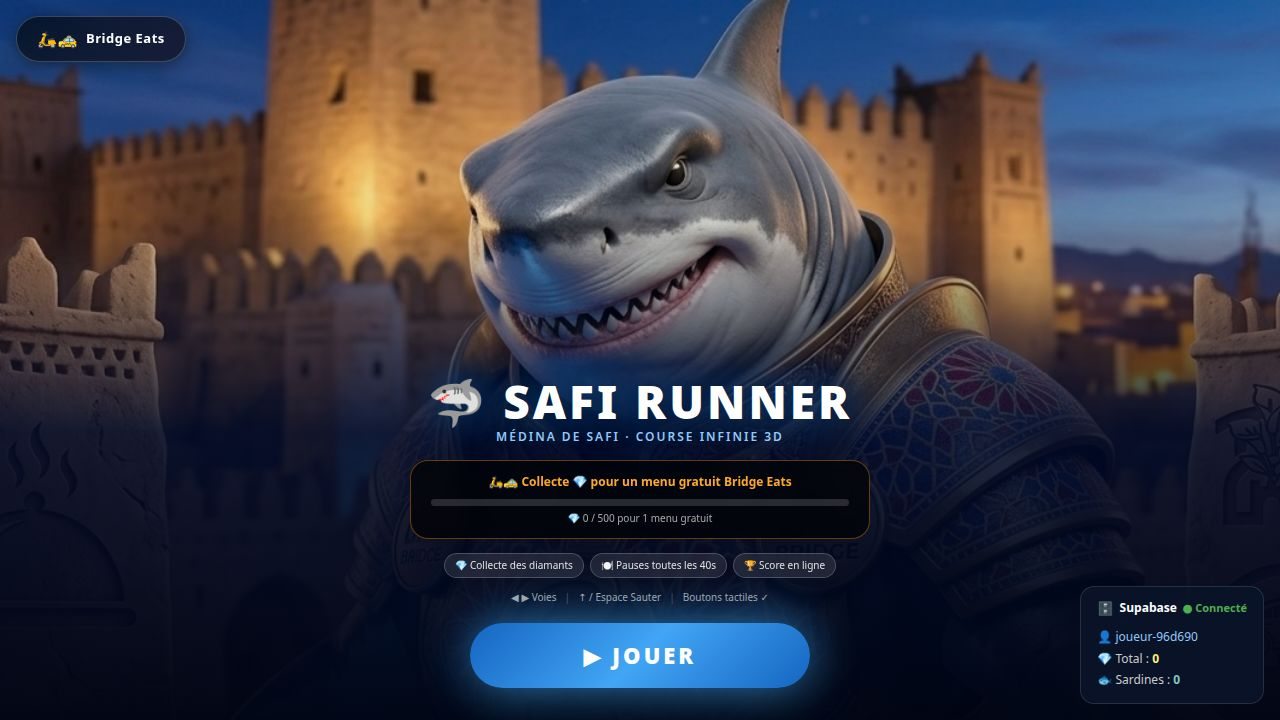
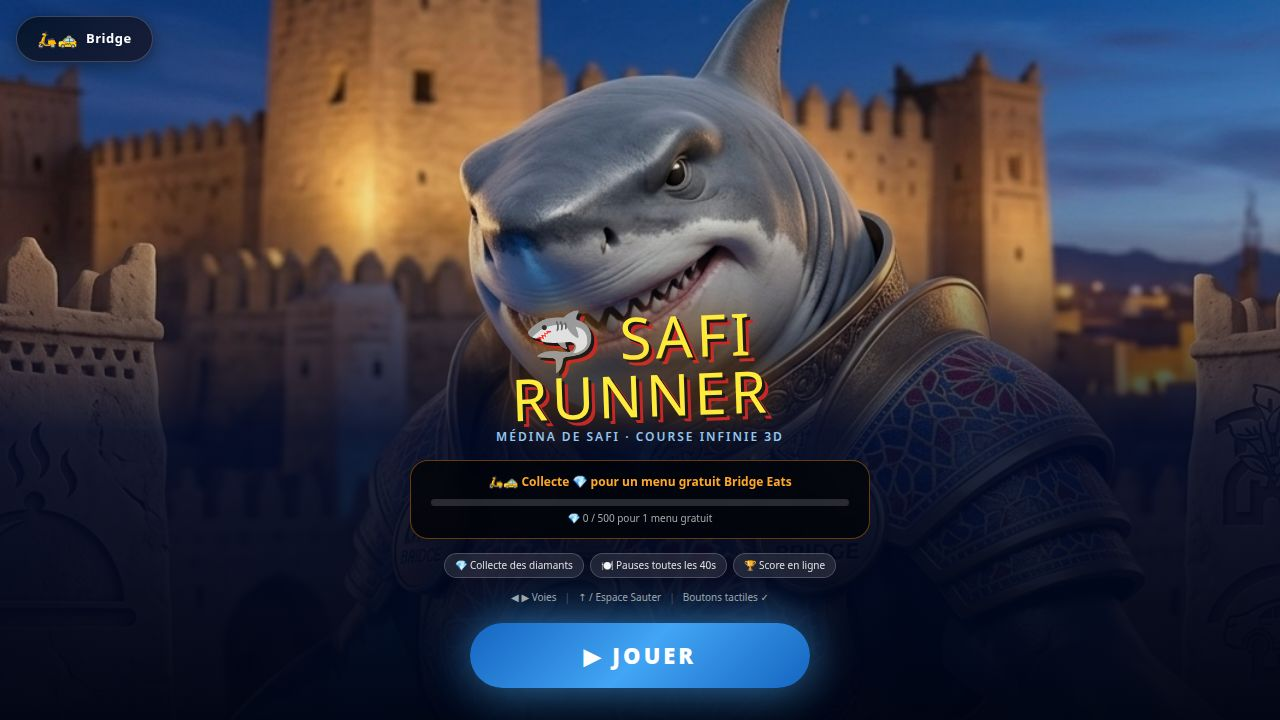
Adjust game difficulty to start easy and become progressively harder
Update game state parameters in `useGameState.ts` to implement a progressive difficulty curve, adjusting speed, obstacle rates, and collectible spawn rates over time. Also, reorder CSS imports in `index.css` to ensure Google Fonts are loaded first.

Replit-Commit-Author: Agent
Replit-Commit-Session-Id: 6561ac08-ca0f-453b-919e-0df1260e3bb4
Replit-Commit-Checkpoint-Type: full_checkpoint
Replit-Commit-Event-Id: eaf07655-99c6-4ed3-91b5-167feb515d7a
Replit-Commit-Screenshot-Url: https://storage.googleapis.com/screenshot-production-us-central1/de74e39f-30c2-4a4e-81c6-35b38d5328e6/6561ac08-ca0f-453b-919e-0df1260e3bb4/sDgDgtV
Replit-Helium-Checkpoint-Created: true

Changed region(s): [[0.3438, 0.3972, 0.6875, 0.6111], [0.8438, 0.825, 0.9688, 0.9778], [0.0938, 0.0, 0.1562, 0.0917]]

diff --git a/artifacts/3d-game/src/game/useGameState.ts b/artifacts/3d-game/src/game/useGameState.ts
@@ -30,15 +30,36 @@ export interface GameState {
   nextCheckpointAt: number;
 }
 
-/* ── Paramètres de difficulté ───────────────────────────────── */
-const CHECKPOINT_INTERVAL = 40;   // pub toutes les 40s (max de revenus)
-const SPEED_START       = 10;     // vitesse initiale plus rapide
-const SPEED_MAX         = 28;     // max speed pour sensation intense
-const SPEED_RAMP        = 120;    // rampe plus agressive (200 → 120)
-const OBSTACLE_RATE     = 2.4;    // obstacles plus fréquents (1.2 → 2.4)
-const DIAMOND_RATE      = 0.75;   // diamants rares (2.0 → 0.75) = 1 toutes ~1.3s
-const CLUSTER_CHANCE    = 0.25;   // 25% de chance de cluster (2 diamants d'affilée)
-const DOUBLE_OBS_CHANCE = 0.30;   // 30% de chance d'obstacle sur 2 voies simultanément
+/* ── Paramètres de difficulté progressive ──────────────────────
+   Le jeu démarre TRÈS facile (échauffement 15s) puis monte
+   progressivement. Pour atteindre 1000 il faudra ~80s à fond.
+   ─────────────────────────────────────────────────────────────── */
+const CHECKPOINT_INTERVAL = 60;   // pub toutes les 60s
+
+/* Vitesse — progression douce */
+const SPEED_START = 8;            // démarrage zen
+const SPEED_MAX   = 30;           // intense après ~90s
+const SPEED_RAMP_TIME = 90;       // 90s pour atteindre le max
+
+/* Spawn obstacles — quasi vide au début, dense à la fin */
+const OBSTACLE_RATE_MIN = 0.6;    // 0-15s : 1 obstacle / 1.7s (très facile)
+const OBSTACLE_RATE_MAX = 3.2;    // 90s+ : 1 obstacle toutes ~0.3s (intense)
+
+/* Double obstacle (bloque 2 voies) — apparaît seulement après 30s */
+const DOUBLE_OBS_START_TIME = 30; // pas de double avant 30s
+const DOUBLE_OBS_MAX_CHANCE = 0.45;
+
+/* Triple obstacle (force le saut) — apparaît seulement après 60s */
+const TRIPLE_OBS_START_TIME = 60;
+const TRIPLE_OBS_MAX_CHANCE = 0.15;
+
+/* Pièces d'or — généreuses au début pour la satisfaction */
+const DIAMOND_RATE_MIN = 1.4;     // au début beaucoup de pièces
+const DIAMOND_RATE_MAX = 0.7;     // à la fin moins de pièces (plus risquées)
+const CLUSTER_CHANCE   = 0.35;    // 35% de chance de cluster
+
+/* Helper : interpolation linéaire bornée */
+const lerp = (a: number, b: number, t: number) => a + (b - a) * Math.max(0, Math.min(1, t));
 
 export function useGameState() {
   const idRef = useRef(0);
@@ -68,23 +89,23 @@ export function useGameState() {
     lastDiamondLane.current = null;
     clusterCount.current = 0;
 
-    /* Pré-charger diamants et obstacles so the game feels full immediately */
+    /* Démarrage doux : peu d'obstacles, beaucoup de pièces visibles */
     const preObstacles: Obstacle[] = [];
     const preDiamonds: Diamond[] = [];
 
-    // Obstacles à 3 distances différentes (pas trop proches au départ)
-    [-55, -85, -120, -155].forEach((z) => {
+    // Seulement 2 obstacles loin pour ne pas effrayer le débutant
+    [-95, -150].forEach((z) => {
       const lane = Math.floor(Math.random() * 3) - 1;
       preObstacles.push({ id: idRef.current++, lane, z });
     });
 
-    // Diamants répartis sur toute la profondeur visible
-    [-12, -22, -35, -48, -62, -78, -95, -115, -138, -160].forEach((z) => {
+    // Beaucoup de pièces tentantes au démarrage
+    [-12, -22, -32, -42, -55, -68, -82, -100, -120, -140, -165].forEach((z) => {
       const lane = Math.floor(Math.random() * 3) - 1;
       preDiamonds.push({ id: idRef.current++, lane, z });
-      // quelques clusters
-      if (Math.random() < 0.35) {
-        preDiamonds.push({ id: idRef.current++, lane, z: z - 6 });
+      // Clusters généreux au début
+      if (Math.random() < 0.5) {
+        preDiamonds.push({ id: idRef.current++, lane, z: z - 5 });
       }
     });
 
@@ -135,8 +156,24 @@ export function useGameState() {
       playTime += dt;
       distance += dt * speed;
 
-      // Vitesse : montée rapide et agressive
-      speed = Math.min(SPEED_MAX, SPEED_START + distance / SPEED_RAMP);
+      /* ── Progression de difficulté basée sur le temps de jeu ─ */
+      const t = playTime / SPEED_RAMP_TIME;             // 0 → 1 sur 90s
+      speed = lerp(SPEED_START, SPEED_MAX, t);
+
+      // Easing : facile au début, plus intense après 30s (courbe quadratique)
+      const dt15 = Math.max(0, (playTime - 15) / 75);   // démarre à 15s
+      const obstacleRate = lerp(OBSTACLE_RATE_MIN, OBSTACLE_RATE_MAX, dt15 * dt15);
+
+      // Pièces : décroissent légèrement (forcent le risque pour les coins)
+      const diamondRate = lerp(DIAMOND_RATE_MIN, DIAMOND_RATE_MAX, t);
+
+      // Double / triple obstacles : déblocages temporels
+      const doubleChance = playTime < DOUBLE_OBS_START_TIME
+        ? 0
+        : lerp(0, DOUBLE_OBS_MAX_CHANCE, (playTime - DOUBLE_OBS_START_TIME) / 60);
+      const tripleChance = playTime < TRIPLE_OBS_START_TIME
+        ? 0
+        : lerp(0, TRIPLE_OBS_MAX_CHANCE, (playTime - TRIPLE_OBS_START_TIME) / 60);
 
       // Checkpoint → pub
       if (playTime >= nextCheckpointAt) {
@@ -172,30 +209,33 @@ export function useGameState() {
         .map((d) => ({ ...d, z: d.z + speed * dt }))
         .filter((d) => d.z < DESPAWN_Z);
 
-      /* ── Spawn obstacles ────────────────────────────────────── */
-      if (Math.random() < dt * OBSTACLE_RATE) {
+      /* ── Spawn obstacles (rate progressif) ─────────────────── */
+      if (Math.random() < dt * obstacleRate) {
         const lane = Math.floor(Math.random() * 3) - 1;
         obstacles.push({ id: idRef.current++, lane, z: SPAWN_Z });
 
-        // Double obstacle : bloque 2 voies sur 3 = force le joueur à sauter ou à chercher la bonne voie
-        if (Math.random() < DOUBLE_OBS_CHANCE) {
+        // Double obstacle (après 30s) — bloque 2 voies
+        if (Math.random() < doubleChance) {
           let lane2: number;
           do { lane2 = Math.floor(Math.random() * 3) - 1; } while (lane2 === lane);
-          // décalé légèrement pour garder le jeu jouable
           obstacles.push({ id: idRef.current++, lane: lane2, z: SPAWN_Z - 4 });
+
+          // Triple (après 60s) — bloque les 3 voies → FORCE le saut
+          if (Math.random() < tripleChance) {
+            const lane3 = [-1, 0, 1].find((l) => l !== lane && l !== lane2)!;
+            obstacles.push({ id: idRef.current++, lane: lane3, z: SPAWN_Z - 8 });
+          }
         }
       }
 
-      /* ── Spawn diamants (rares, mais avec clusters tentateurs) ── */
-      if (Math.random() < dt * DIAMOND_RATE) {
+      /* ── Spawn pièces (généreuses au début, plus risquées après) ── */
+      if (Math.random() < dt * diamondRate) {
         const lane = Math.floor(Math.random() * 3) - 1;
         diamonds.push({ id: idRef.current++, lane, z: SPAWN_Z });
 
-        // Cluster : 25% de chance d'un 2ème diamant juste derrière (même voie)
         if (Math.random() < CLUSTER_CHANCE) {
           diamonds.push({ id: idRef.current++, lane, z: SPAWN_Z - 5 });
-          // 10% de chance d'un 3ème pour le combo (très tentant mais risqué)
-          if (Math.random() < 0.10) {
+          if (Math.random() < 0.15) {
             diamonds.push({ id: idRef.current++, lane, z: SPAWN_Z - 10 });
           }
         }

diff --git a/artifacts/3d-game/src/index.css b/artifacts/3d-game/src/index.css
@@ -1,8 +1,7 @@
+/* Police cartoon style Subway Surfers — DOIT être en premier */
+@import url('https://fonts.googleapis.com/css2?family=Fredoka:wght@500;600;700&family=Bangers&display=swap');
 @import "tailwindcss";
 @import "tw-animate-css";
-
-/* Police cartoon style Subway Surfers */
-@import url('https://fonts.googleapis.com/css2?family=Fredoka:wght@500;600;700&family=Bangers&display=swap');
 
 @custom-variant dark (&:is(.dark *));
 